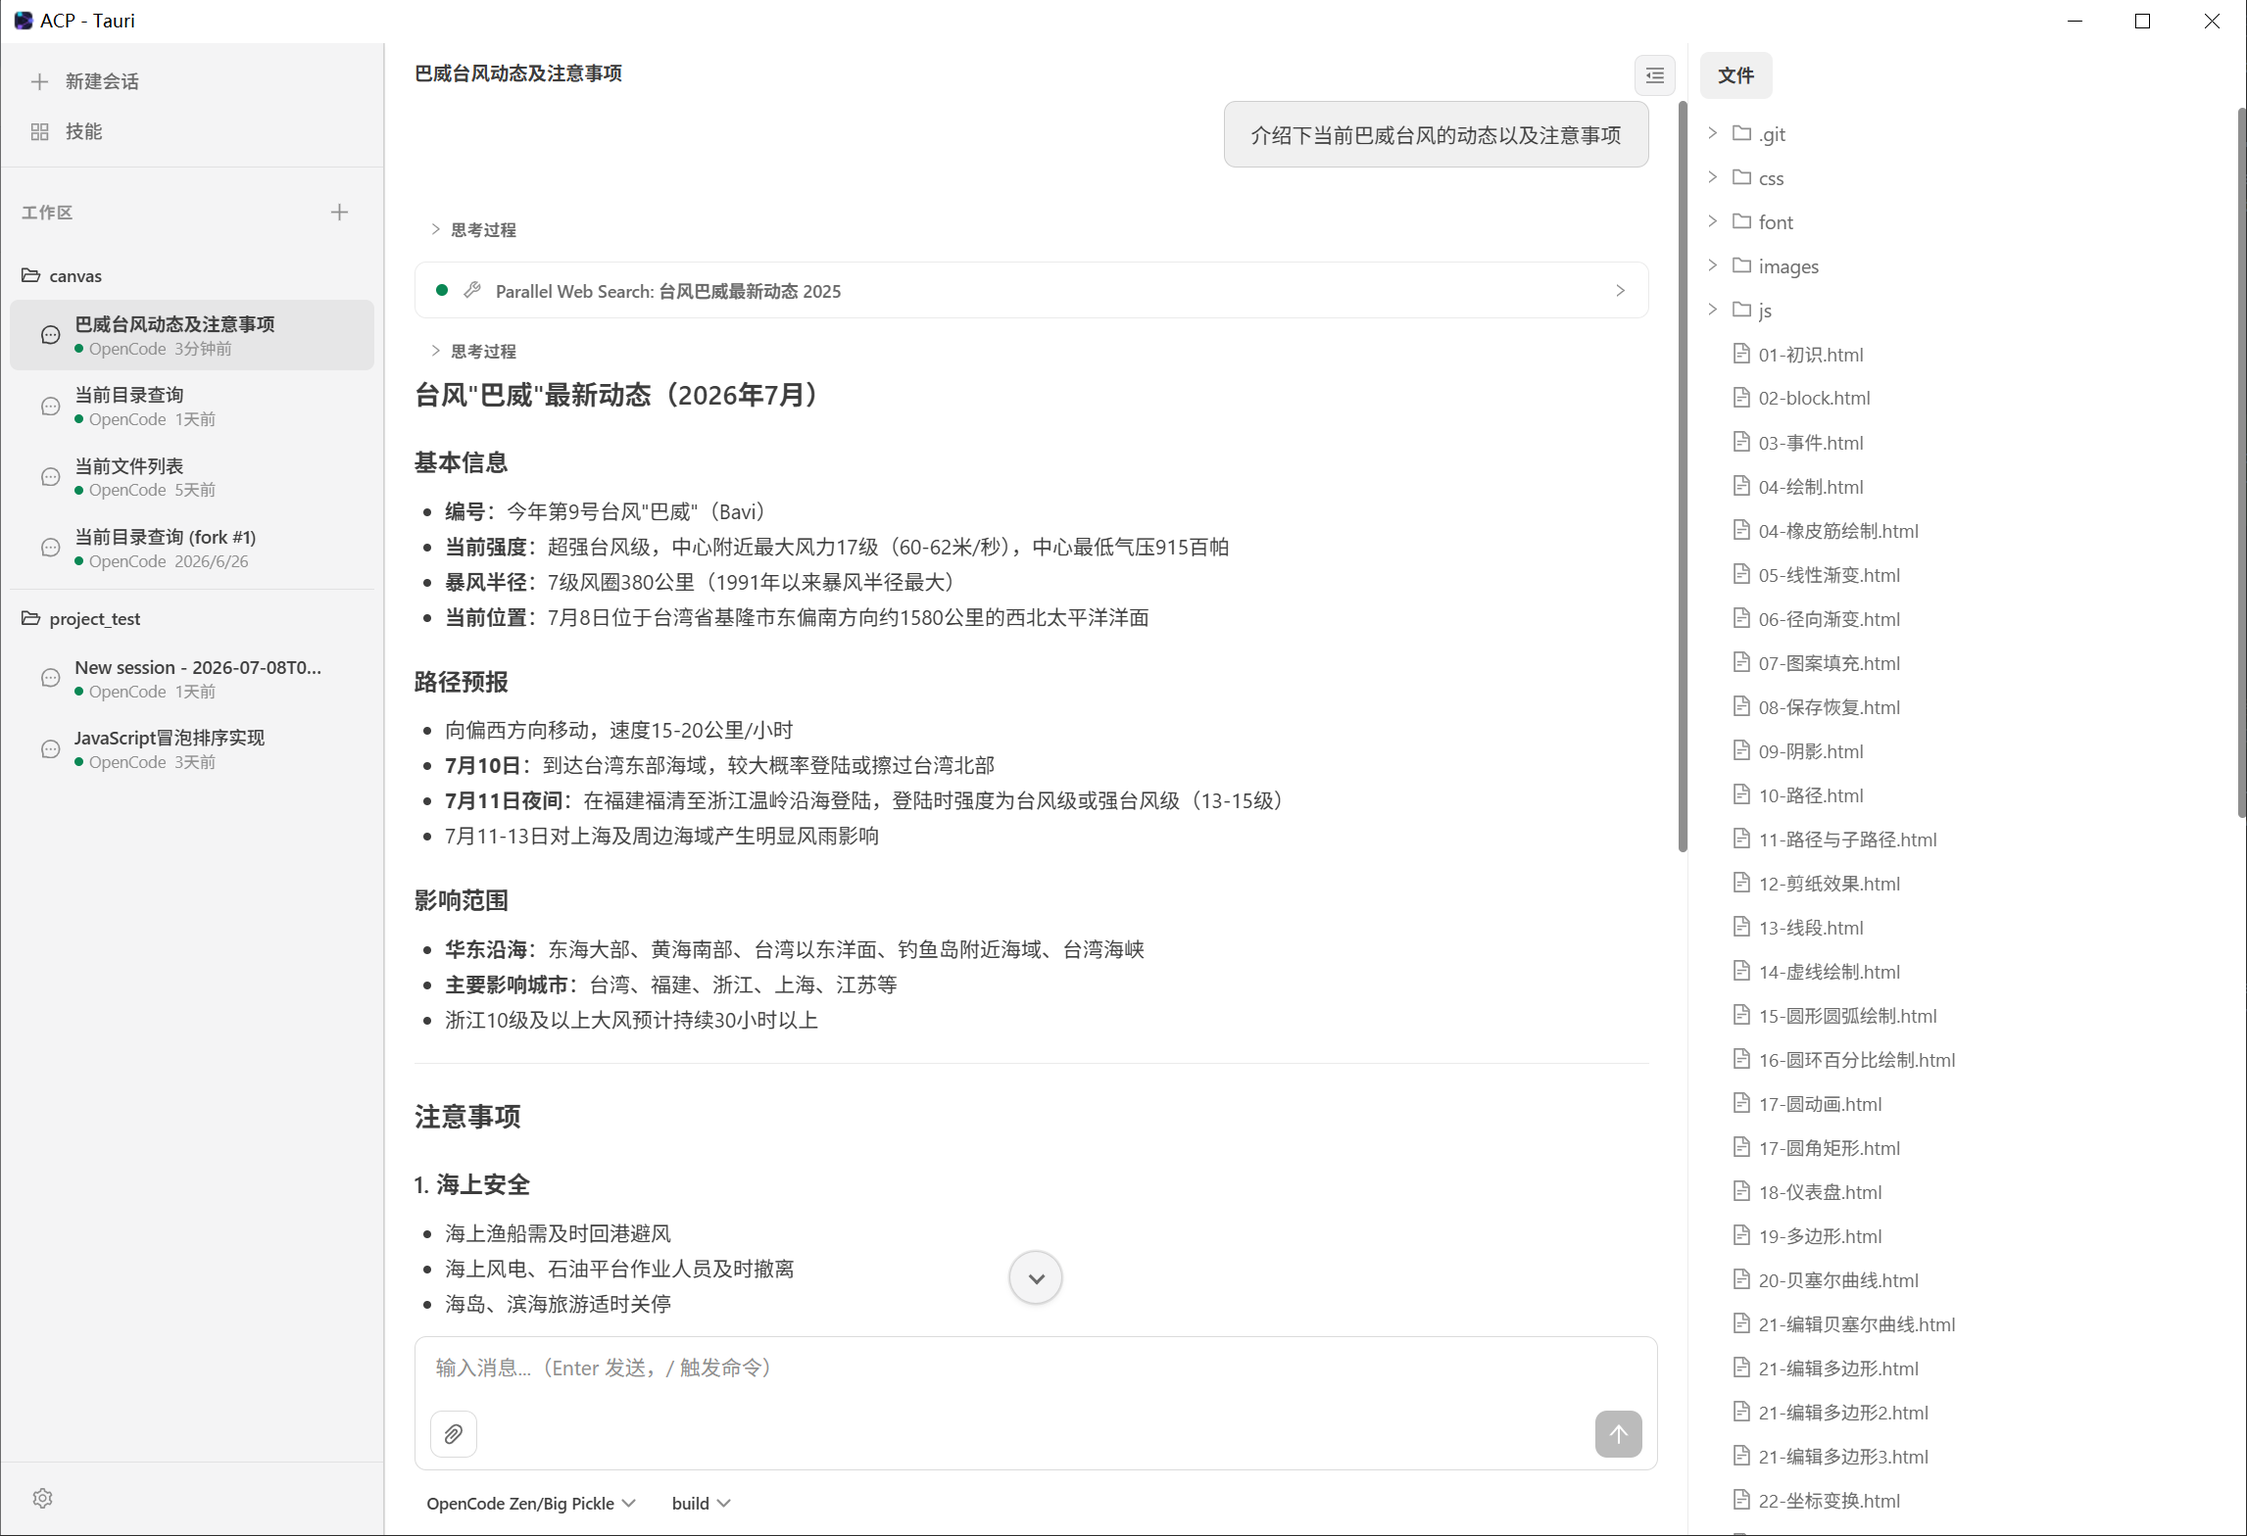
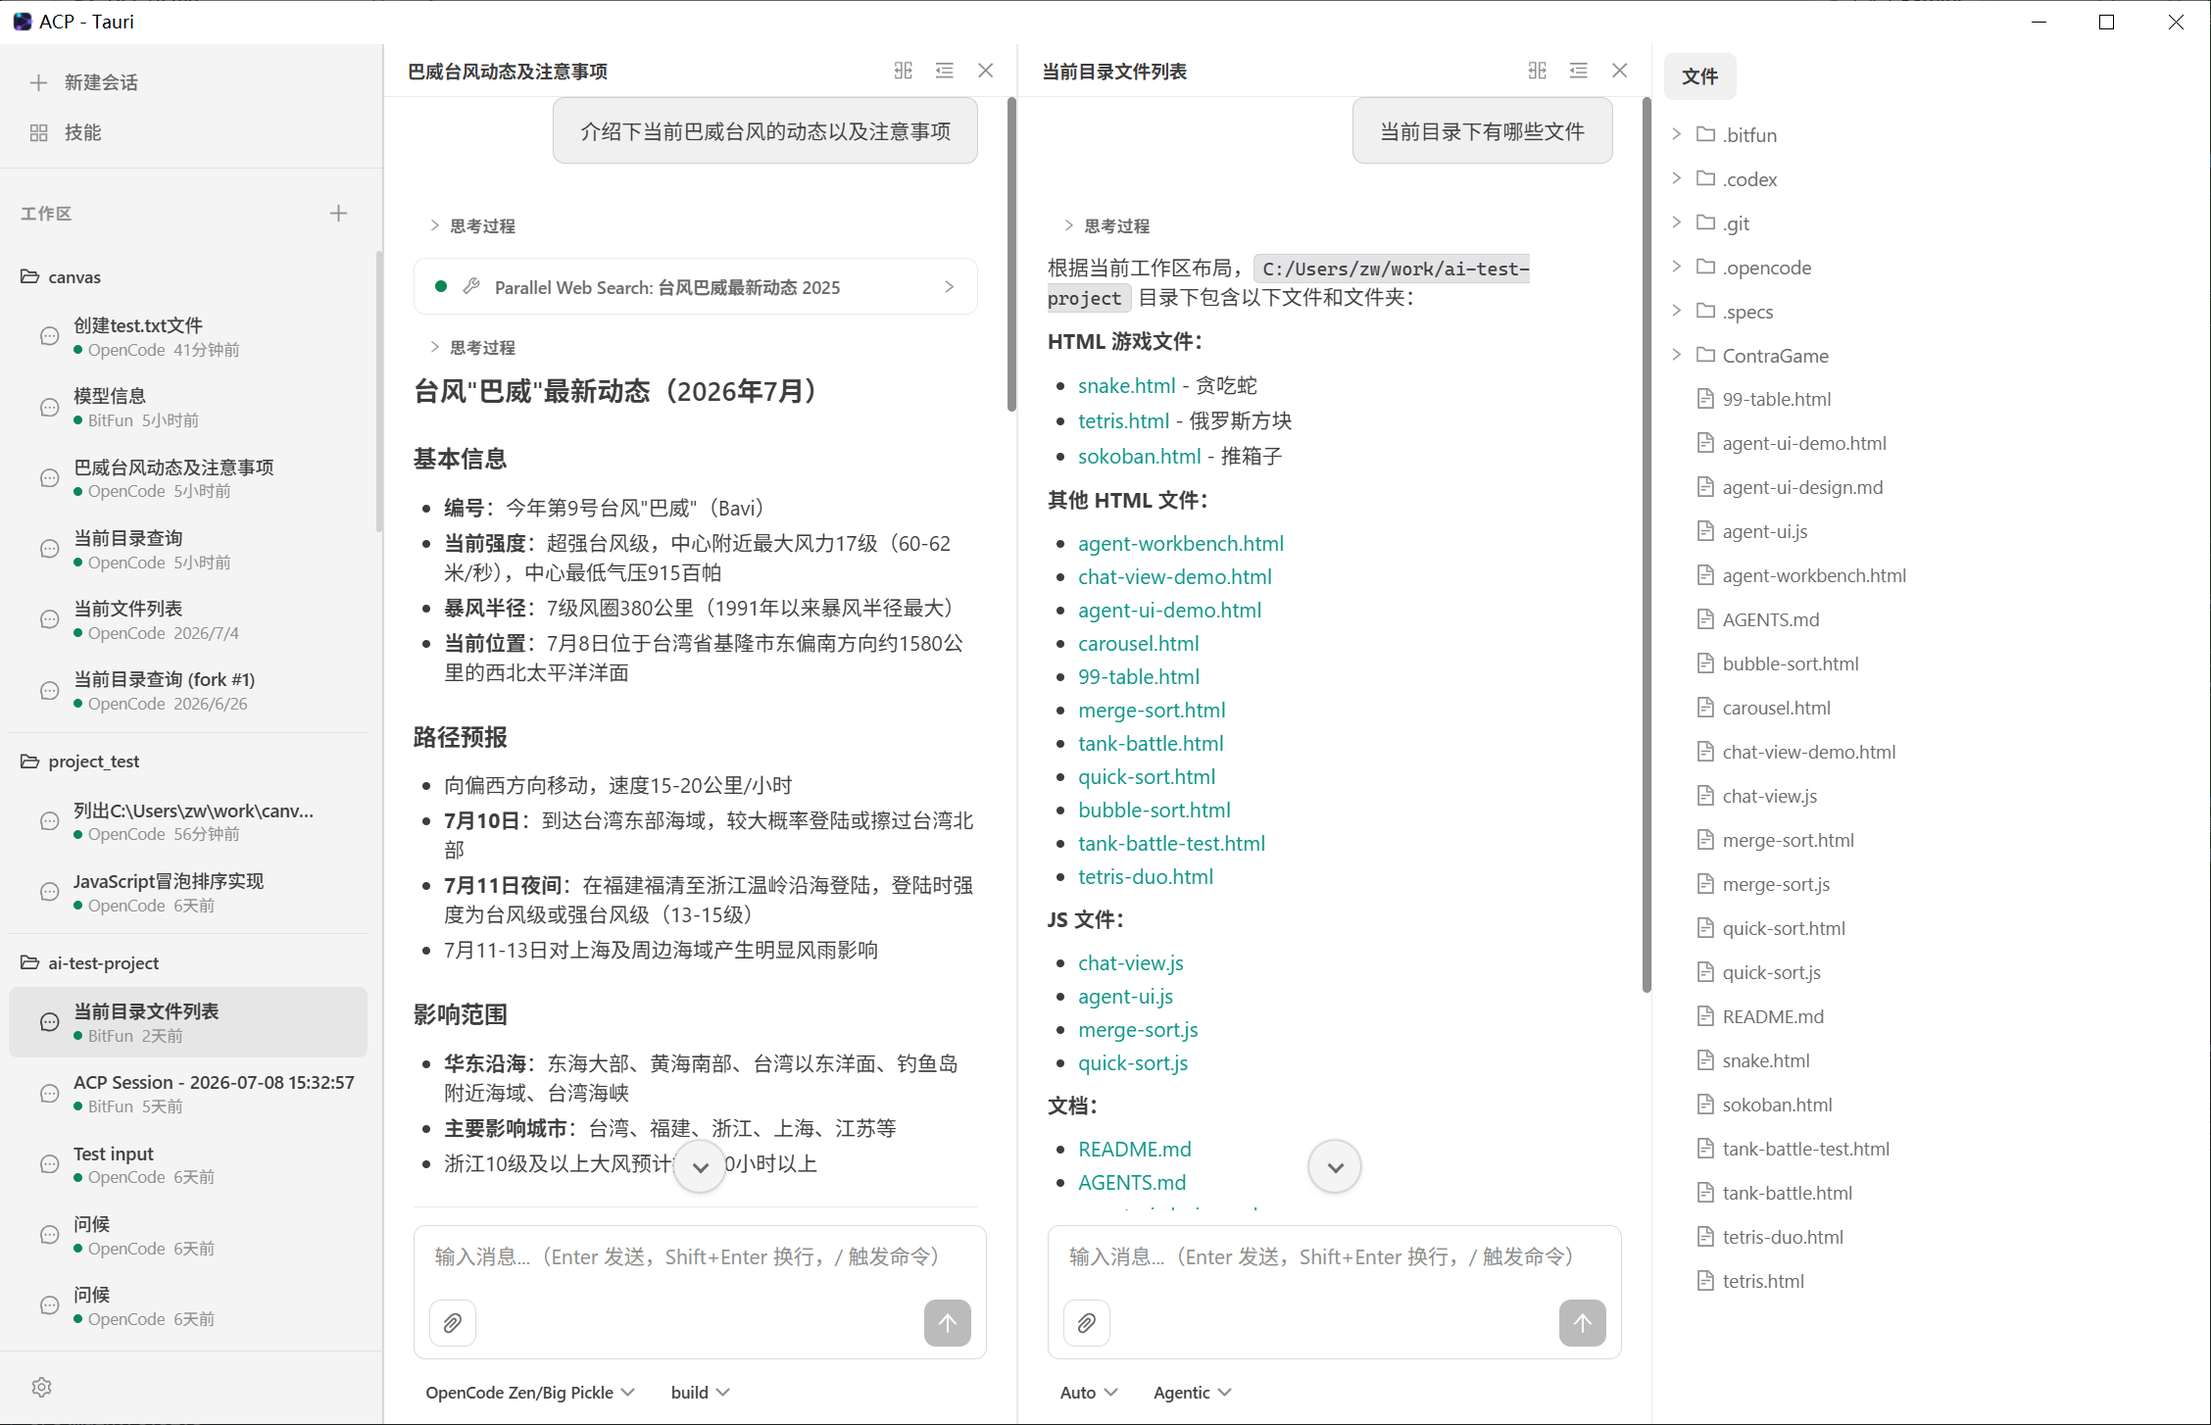
update readme

diff --git a/README.md b/README.md
@@ -11,23 +11,26 @@ You can use the data layer alone to build UI component libraries with Vue, Svelt
 
 - **Multi-Agent** — Connect to multiple ACP agents simultaneously, each with independent transport, capabilities, and session management. User-added agents are persisted to `storage('agents')` and restored on next launch; built-in (host-supplied) agents are never user-removable
 - **Multi-Workspace** — Organize sessions by working directory (cwd); switch between workspaces seamlessly. Workspace list is persisted to `storage('workspaces')` via the built-in `<PlatformWorkspacesAuto>` driver
+- **Multi-Session** — Run and view multiple sessions side-by-side in resizable split panes; each session has fully isolated state (messages, streaming, tool calls, permissions). Per-session chunk batching keeps concurrent streams independent
 - **Framework-Agnostic Core** — Zustand vanilla stores with zero React dependency; works with Vue, Svelte, Solid, or vanilla JS
 - **Multi-Transport** — Stdio, HTTP, WebSocket, and custom transports per agent. Stdio spawn capability is supplied by the host via `platform.process.createStdioTransport` (a web host that cannot spawn a child process simply omits it); ships with a Tauri IPC example
 - **Unified Workbench Shell** — `WorkbenchShell` wires the `Sidebar` (top nav buttons + switchable body + footer) to a main area that swaps views by nav item: Sessions → `SessionView`, Skills → `SkillView`, New Session, Settings, plus host-injected views
-- **Rich UI Components** — SessionView (chat + Files side panel with FileTree & FileViewer), SkillView, SettingsView, chat view (with round grouping), diff view, permission dialog, plan view, thought view, command palette, login dialog, dropdown, select, status bar, and more — 25+ components
+- **Rich UI Components** — SessionView (split session panes + Files side panel with FileTree & FileViewer), SkillView, SettingsView, chat view (with round grouping + inline permission prompt), diff view, plan view, thought view, command palette, login dialog, dropdown, select, status bar, and more — 25+ components
 - **File Tree & File Viewer** — Per-workspace file tree (lazy expand, optional live watch) and an in-panel Monaco-backed file viewer with syntax highlighting and reveal-line; both driven zero-config by `platform.fs`
 - **Skills Catalog** — `SkillView` fetches each connected agent's skill catalog live via `listSkills()`, grouped by scope (user-level vs per-project cwd)
 - **Settings Surface** — Full-page `SettingsView` with Appearance (theme) and Agents management panels; extensible by appending to `SETTINGS_SECTIONS`
 - **Streaming UX** — Real-time content and thought streaming (per-session chunk batching) with animated indicators, live tool call status, and token usage tracking
-- **Session Management** — Full CRUD: create, load, switch, close, delete, fork, refresh, and load-more — scoped by workspace and agent
+- **Session Management** — Full CRUD: create, load, switch, close, delete, fork, refresh, and load-more — scoped by workspace and agent; split panes let you watch several at once
 - **Tool Call Visualization** — Track agent tool invocations with status, input/output, file locations, and diffs
 - **Authentication** — Built-in auth flow with `LoginDialog` component, env_var and terminal-based auth methods, and programmatic `authenticate`/`authenticateWithEnv` actions
-- **Permission Handling** — Promise-based permission flow with built-in modal dialog for approving or rejecting tool call requests
+- **Permission Handling** — Promise-based per-session permission flow with an inline prompt (rendered inside `ChatView`) for approving or rejecting tool call requests; auto-rejected on session close or agent disconnect
 - **Theming** — Dark and light themes via CSS custom properties (`--acp-*` design tokens); runtime switching through `useSettings().setTheme()`; extensible via `data-acp-theme` attribute
 - **Internationalization** — Built-in i18n (en-US, zh-CN) via i18next with locale auto-detection sourced from the host `Platform.system.getLocale()`
 - **Desktop Ready** — Includes Tauri and stdio transport examples for native desktop applications
 
 ## Screenshots
+
+Supports session splitting to display multiple sessions
 
 ### Web Demo
 
@@ -177,9 +180,11 @@ Each agent in the `agents` array gets its own transport configuration:
 | `WorkbenchShell` | Orchestrates the whole layout: a `Sidebar` (top nav + switchable body + footer) on the left, and a main area that swaps views by active nav item (Sessions → `SessionView`, Skills → `SkillView`, New Session → `NewSessionView`, Settings → `SettingsView`, plus host-injected `navItems`). Props: `sessionId`, `navItems`, `sidebarWidth`, `panelWidth`, … |
 | `Workbench` | Low-level three-panel layout (sidebar, main, panel) using CSS Grid — `WorkbenchShell` builds on top of this |
 | `Sidebar` | Pure renderer: full-width icon+text nav buttons + a `SessionList` body + a `SettingsMenu` footer. Props: `activeView`, `onActiveViewChange`, `navItems`, `onSelectSession`, `onOpenSettings` |
-| `SessionView` | Active-session surface: `ChatView` on the left, a resizable side panel with the built-in Files tab (`FileTree` + opened-`FileViewer`, two columns) on the right, plus host-injected tabs. Props: `sessionId`, `tabs`, `activeTabId`, `panelWidth`, `showFilesTab`, … |
-| `SessionList` | Sidebar body: workspaces grouped by directory, sessions grouped by agent within each workspace, with add workspace / create / select / delete actions |
-| `ChatView` | Main chat area: groups messages into user/agent rounds, renders plan, usage bar, and config panel. Props: `sessionId`, `onNavigateFile` |
+| `SessionView` | Active-session surface: `SessionPanes` (split-able chat columns) on the left, a resizable `SessionPanel` with the built-in Files tab (`FileTree` + opened-`FileViewer`, two columns) on the right, plus host-injected tabs. Props: `sessionId`, `tabs`, `activeTabId`, `panelWidth`, `showFilesTab`, … |
+| `SessionPanes` | Multi-session split view: renders one or more `ChatView` columns side-by-side with percentage-based resize handles. Click the split icon to duplicate a pane; close a pane to remove it. The active pane tracks `activeSessionId`. Props: `sessionId`, `onNavigateFile`, `headerExtras` |
+| `SessionPanel` | Right-side panel with a tab bar (built-in Files + host-injected tabs) and a resizable `FileTree` / `FileViewer` two-column layout. Props: `cwd`, `tabs`, `activeTabId`, `panelWidth`, `showFilesTab`, … |
+| `SessionList` | Sidebar body: workspaces grouped by directory, sessions flattened across agents and sorted newest-first, with add workspace / create / select / fork / delete actions |
+| `ChatView` | Main chat area: groups messages into user/agent rounds, renders plan, usage bar, config panel, and inline `PermissionPrompt`. Props: `sessionId`, `onNavigateFile`, `showHeader` |
 | `MessageBubble` | Renders message parts (content blocks, thought blocks, tool calls) with Markdown via `react-markdown` |
 | `Markdown` | Reusable Markdown renderer with syntax-highlighted code blocks and GFM support |
 | `ChatComposer` | Text input with slash-command palette integration and send / cancel controls |

diff --git a/README_zh.md b/README_zh.md
@@ -13,23 +13,26 @@
 
 - **多 Agent 支持** — 同时连接多个 ACP Agent，每个 Agent 拥有独立的传输层、能力和会话管理。用户添加的 Agent 会持久化到 `storage('agents')` 并在下次启动时恢复；内置（宿主提供的）Agent 不可被用户移除
 - **多工作区支持** — 按工作目录（cwd）组织会话，可无缝切换工作区。工作区列表通过内置的 `<PlatformWorkspacesAuto>` 驱动持久化到 `storage('workspaces')`
+- **多会话支持** — 并发运行多个会话并在可拖拽的分割窗格中并排查看；每个会话拥有完全隔离的状态（消息、流式、工具调用、权限）。按会话分批聚合让并发流互不干扰
 - **框架无关核心** — Zustand vanilla stores，零 React 依赖；支持 Vue、Svelte、Solid 或纯 JS
 - **多传输协议** — 每个 Agent 可独立配置 Stdio、HTTP、WebSocket 及自定义传输。Stdio 的启动能力由宿主通过 `platform.process.createStdioTransport` 提供（无法启动子进程的 Web 宿主直接省略即可）；附带 Tauri IPC 传输示例
 - **统一的 Workbench Shell** — `WorkbenchShell` 将 `Sidebar`（顶部导航按钮 + 可切换主体 + 底部栏）与主区域串联：按导航项切换主视图（Sessions → `SessionView`、Skills → `SkillView`、New Session、Settings，以及宿主注入的视图）
-- **丰富的 UI 组件** — SessionView（聊天 + Files 侧边栏，含 FileTree 与 FileViewer）、SkillView、SettingsView、聊天视图（回合分组）、Diff 视图、权限弹窗、计划视图、思考视图、命令面板、登录弹窗、Dropdown、Select、状态栏等 25+ 组件
+- **丰富的 UI 组件** — SessionView（分割会话窗格 + Files 侧边栏，含 FileTree 与 FileViewer）、SkillView、SettingsView、聊天视图（回合分组 + 内联权限提示）、Diff 视图、计划视图、思考视图、命令面板、登录弹窗、Dropdown、Select、状态栏等 25+ 组件
 - **文件树与文件查看器** — 按工作区分的文件树（懒加载展开、可选实时监听）以及面板内基于 Monaco 的文件查看器（语法高亮、行定位）；两者均由 `platform.fs` 零配置驱动
 - **技能目录** — `SkillView` 通过 `listSkills()` 实时拉取每个已连接 Agent 的技能目录，按作用域（用户级 vs 项目 cwd）分组展示
 - **设置界面** — 全屏 `SettingsView`，含 Appearance（主题）与 Agents 管理 panels，通过追加 `SETTINGS_SECTIONS` 即可扩展
 - **流式交互体验** — 实时内容与思考过程流式展示（按会话批次聚合），动画指示器，工具调用状态跟踪，Token 用量统计
-- **会话管理** — 完整 CRUD：创建、加载、切换、关闭、删除、fork、刷新、加载更多——按工作区和 Agent 维度管理
+- **会话管理** — 完整 CRUD：创建、加载、切换、关闭、删除、fork、刷新、加载更多——按工作区和 Agent 维度管理；分割窗格让你同时关注多个会话
 - **工具调用可视化** — 追踪 Agent 工具调用，展示状态、输入/输出、文件定位和差异对比
 - **认证** — 内置认证流程，包含 `LoginDialog` 组件，支持 env_var 和 terminal 两种认证方式，以及 `authenticate`/`authenticateWithEnv` 编程式 actions
-- **权限处理** — 基于 Promise 的权限流程，内置模态弹窗用于批准或拒绝工具调用请求
+- **权限处理** — 基于按会话隔离的 Promise 权限流程，内联提示框（在 `ChatView` 内渲染）用于批准或拒绝工具调用请求；会话关闭或 Agent 断连时自动拒绝
 - **主题系统** — 通过 CSS 自定义属性（`--acp-*` 设计令牌）提供暗色/亮色主题；运行时通过 `useSettings().setTheme()` 切换；通过 `data-acp-theme` 属性可扩展自定义主题
 - **国际化** — 内置 i18n（英文、中文）基于 i18next，语言自动检测来源于宿主 `Platform.system.getLocale()`
 - **桌面端就绪** — 包含 Tauri 和 stdio 传输示例，可直接用于原生桌面应用开发
 
 ## 效果截图
+
+支持会话分割，展示多会话
 
 ### Web 演示
 
@@ -179,9 +182,11 @@ ReactDOM.createRoot(document.getElementById('root')!).render(<App />);
 | `WorkbenchShell` | 串联整套布局：左侧 `Sidebar`（顶部导航 + 可切换主体 + 底部栏），主区域按当前导航项切换视图（Sessions → `SessionView`、Skills → `SkillView`、New Session → `NewSessionView`、Settings → `SettingsView`，以及宿主注入的 `navItems`）。Props：`sessionId`、`navItems`、`sidebarWidth`、`panelWidth`…… |
 | `Workbench` | 底层三栏布局（侧边栏、主区域、面板），基于 CSS Grid——`WorkbenchShell` 构建在其之上 |
 | `Sidebar` | 纯渲染组件：全宽图标+文字导航按钮 + `SessionList` 主体 + `SettingsMenu` 底部栏。Props：`activeView`、`onActiveViewChange`、`navItems`、`onSelectSession`、`onOpenSettings` |
-| `SessionView` | 当前会话界面：左侧 `ChatView`，右侧可调整大小的侧边栏，内置 Files 标签页（`FileTree` + 已打开的 `FileViewer`，双列）及宿主注入的标签页。Props：`sessionId`、`tabs`、`activeTabId`、`panelWidth`、`showFilesTab`…… |
-| `SessionList` | 侧边栏主体：按工作区目录分组，工作区内按 Agent 分组展示会话，支持添加工作区/创建/选择/删除操作 |
-| `ChatView` | 主聊天区域：将消息分组为用户/Agent 回合，渲染计划、用量条和配置面板。Props：`sessionId`、`onNavigateFile` |
+| `SessionView` | 当前会话界面：左侧 `SessionPanes`（可分割的聊天列），右侧可调整大小的 `SessionPanel`，内置 Files 标签页（`FileTree` + 已打开的 `FileViewer`，双列）及宿主注入的标签页。Props：`sessionId`、`tabs`、`activeTabId`、`panelWidth`、`showFilesTab`…… |
+| `SessionPanes` | 多会话分割视图：并排渲染一个或多个 `ChatView` 列，支持百分比拖拽调整。点击分割图标复制窗格，点击关闭移除窗格。激活窗格跟踪 `activeSessionId`。Props：`sessionId`、`onNavigateFile`、`headerExtras` |
+| `SessionPanel` | 右侧面板，含标签栏（内置 Files + 宿主注入标签页）和可调整大小的 `FileTree` / `FileViewer` 双列布局。Props：`cwd`、`tabs`、`activeTabId`、`panelWidth`、`showFilesTab`…… |
+| `SessionList` | 侧边栏主体：按工作区目录分组，会话跨 Agent 扁平化并按时间倒序排列，支持添加工作区/创建/选择/fork/删除操作 |
+| `ChatView` | 主聊天区域：将消息分组为用户/Agent 回合，渲染计划、用量条、配置面板和内联 `PermissionPrompt`。Props：`sessionId`、`onNavigateFile`、`showHeader` |
 | `MessageBubble` | 渲染消息内容（内容块、思考块、工具调用），通过 `react-markdown` 支持 Markdown |
 | `Markdown` | 可复用的 Markdown 渲染器，支持语法高亮代码块和 GFM |
 | `ChatComposer` | 文本输入框，集成斜杠命令面板和发送/取消控制 |
